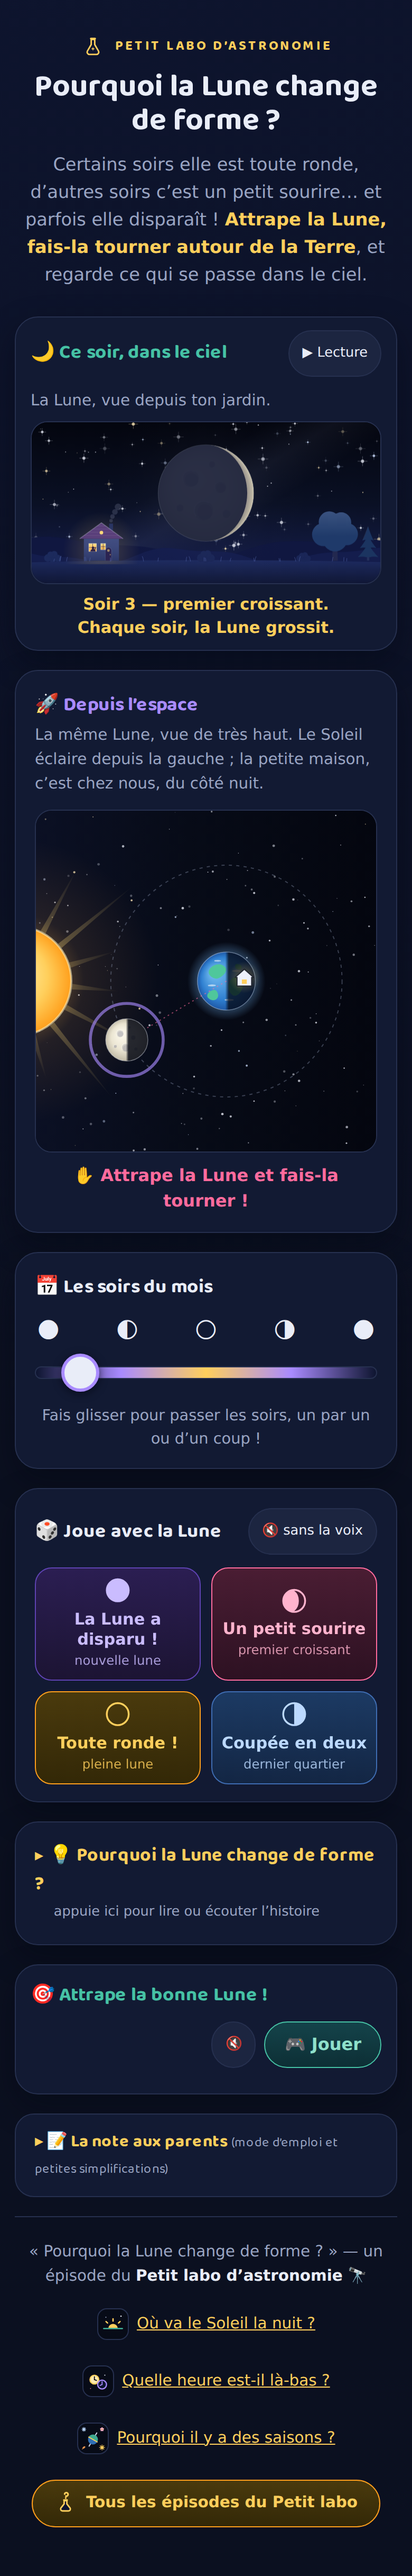
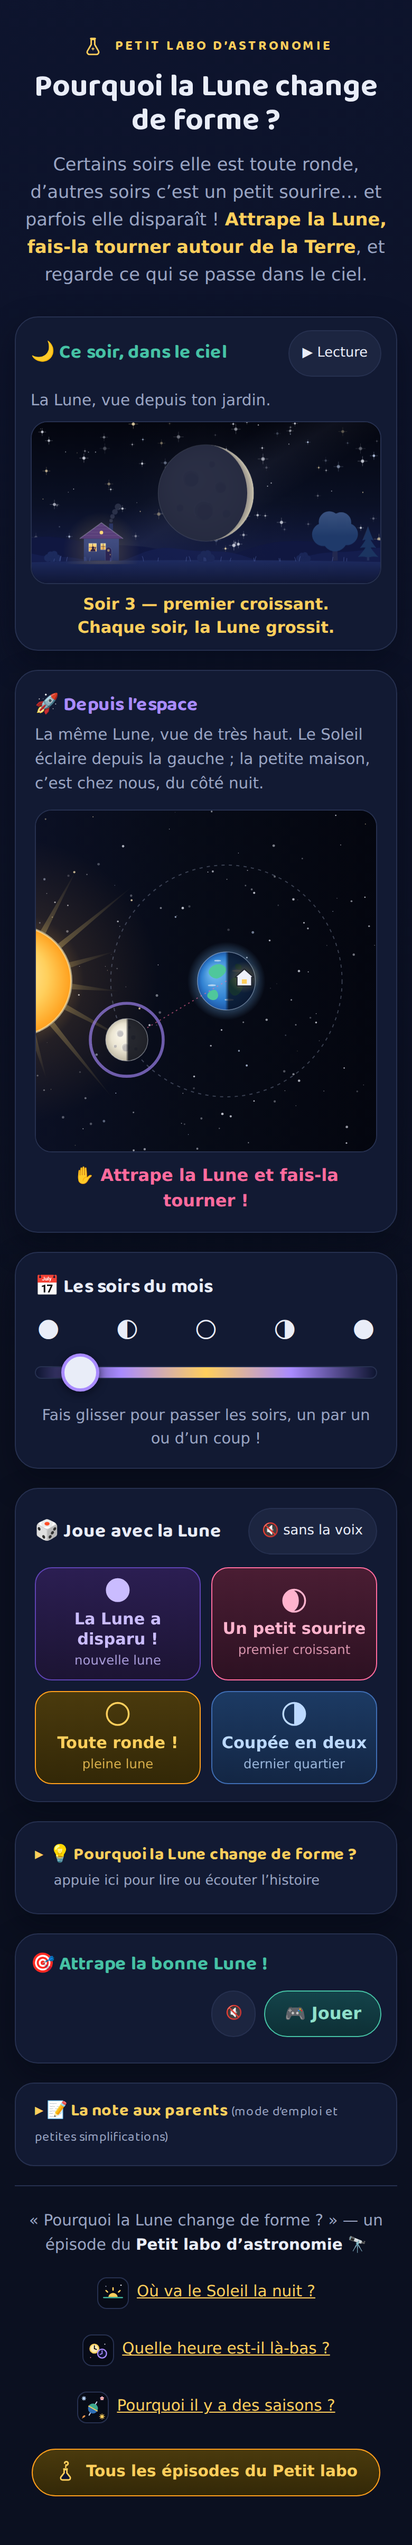
Le titre replié de l'histoire tient sur une ligne sur mobile
Sur 390 px, « Pourquoi la Lune change de forme ? » débordait d'un rien et le
point d'interrogation partait seul à la ligne. Taille fluide du titre du
résumé (clamp, une ligne dès 360 px) et espace insécable avant le « ? »
pour qu'il ne soit jamais orphelin. Captures docs/ régénérées.

Claude-Session: https://claude.ai/code/session_01NU1CBoUaNd48FiGT13WkuM

diff --git a/css/style.css b/css/style.css
@@ -409,7 +409,10 @@ input[type="range"]:focus-visible { outline-offset: 4px; border-radius: 999px; }
   .resume-explication::-webkit-details-marker { display: none; }
   .resume-explication::before { content: '▸ '; color: var(--sun); font-weight: 700; }
   .carte-explication[open] .resume-explication::before { content: '▾ '; }
-  .resume-explication h2 { display: inline; font-size: 1.1rem; }
+  /* le titre tient sur une ligne dès 360 px (mesuré : ~335 px à 1,1 rem avec
+     le chevron) : taille fluide, et l'espace insécable avant le « ? » du HTML
+     empêche un point d'interrogation orphelin sur les écrans plus étroits */
+  .resume-explication h2 { display: inline; font-size: clamp(0.9rem, 4.2vw, 1.1rem); }
 
   .indice-pli {
     display: block;

diff --git a/index.html b/index.html
@@ -126,11 +126,11 @@
          main.js la garde ouverte). -->
     <details class="carte carte-explication" id="pli-explication" open>
       <summary class="resume-explication">
-        <h2>💡 Pourquoi la Lune change de forme ?</h2>
+        <h2>💡 Pourquoi la Lune change de forme&nbsp;?</h2>
         <span class="indice-pli">appuie ici pour lire ou écouter l’histoire</span>
       </summary>
       <div class="titre-avec-bouton">
-        <h2>💡 Pourquoi la Lune change de forme ?</h2>
+        <h2>💡 Pourquoi la Lune change de forme&nbsp;?</h2>
         <div class="boutons-voix">
           <button id="bouton-ecouter" class="bouton-son bouton-ecouter" type="button" aria-pressed="false" hidden>🔊 Écouter l’histoire</button>
         </div>
